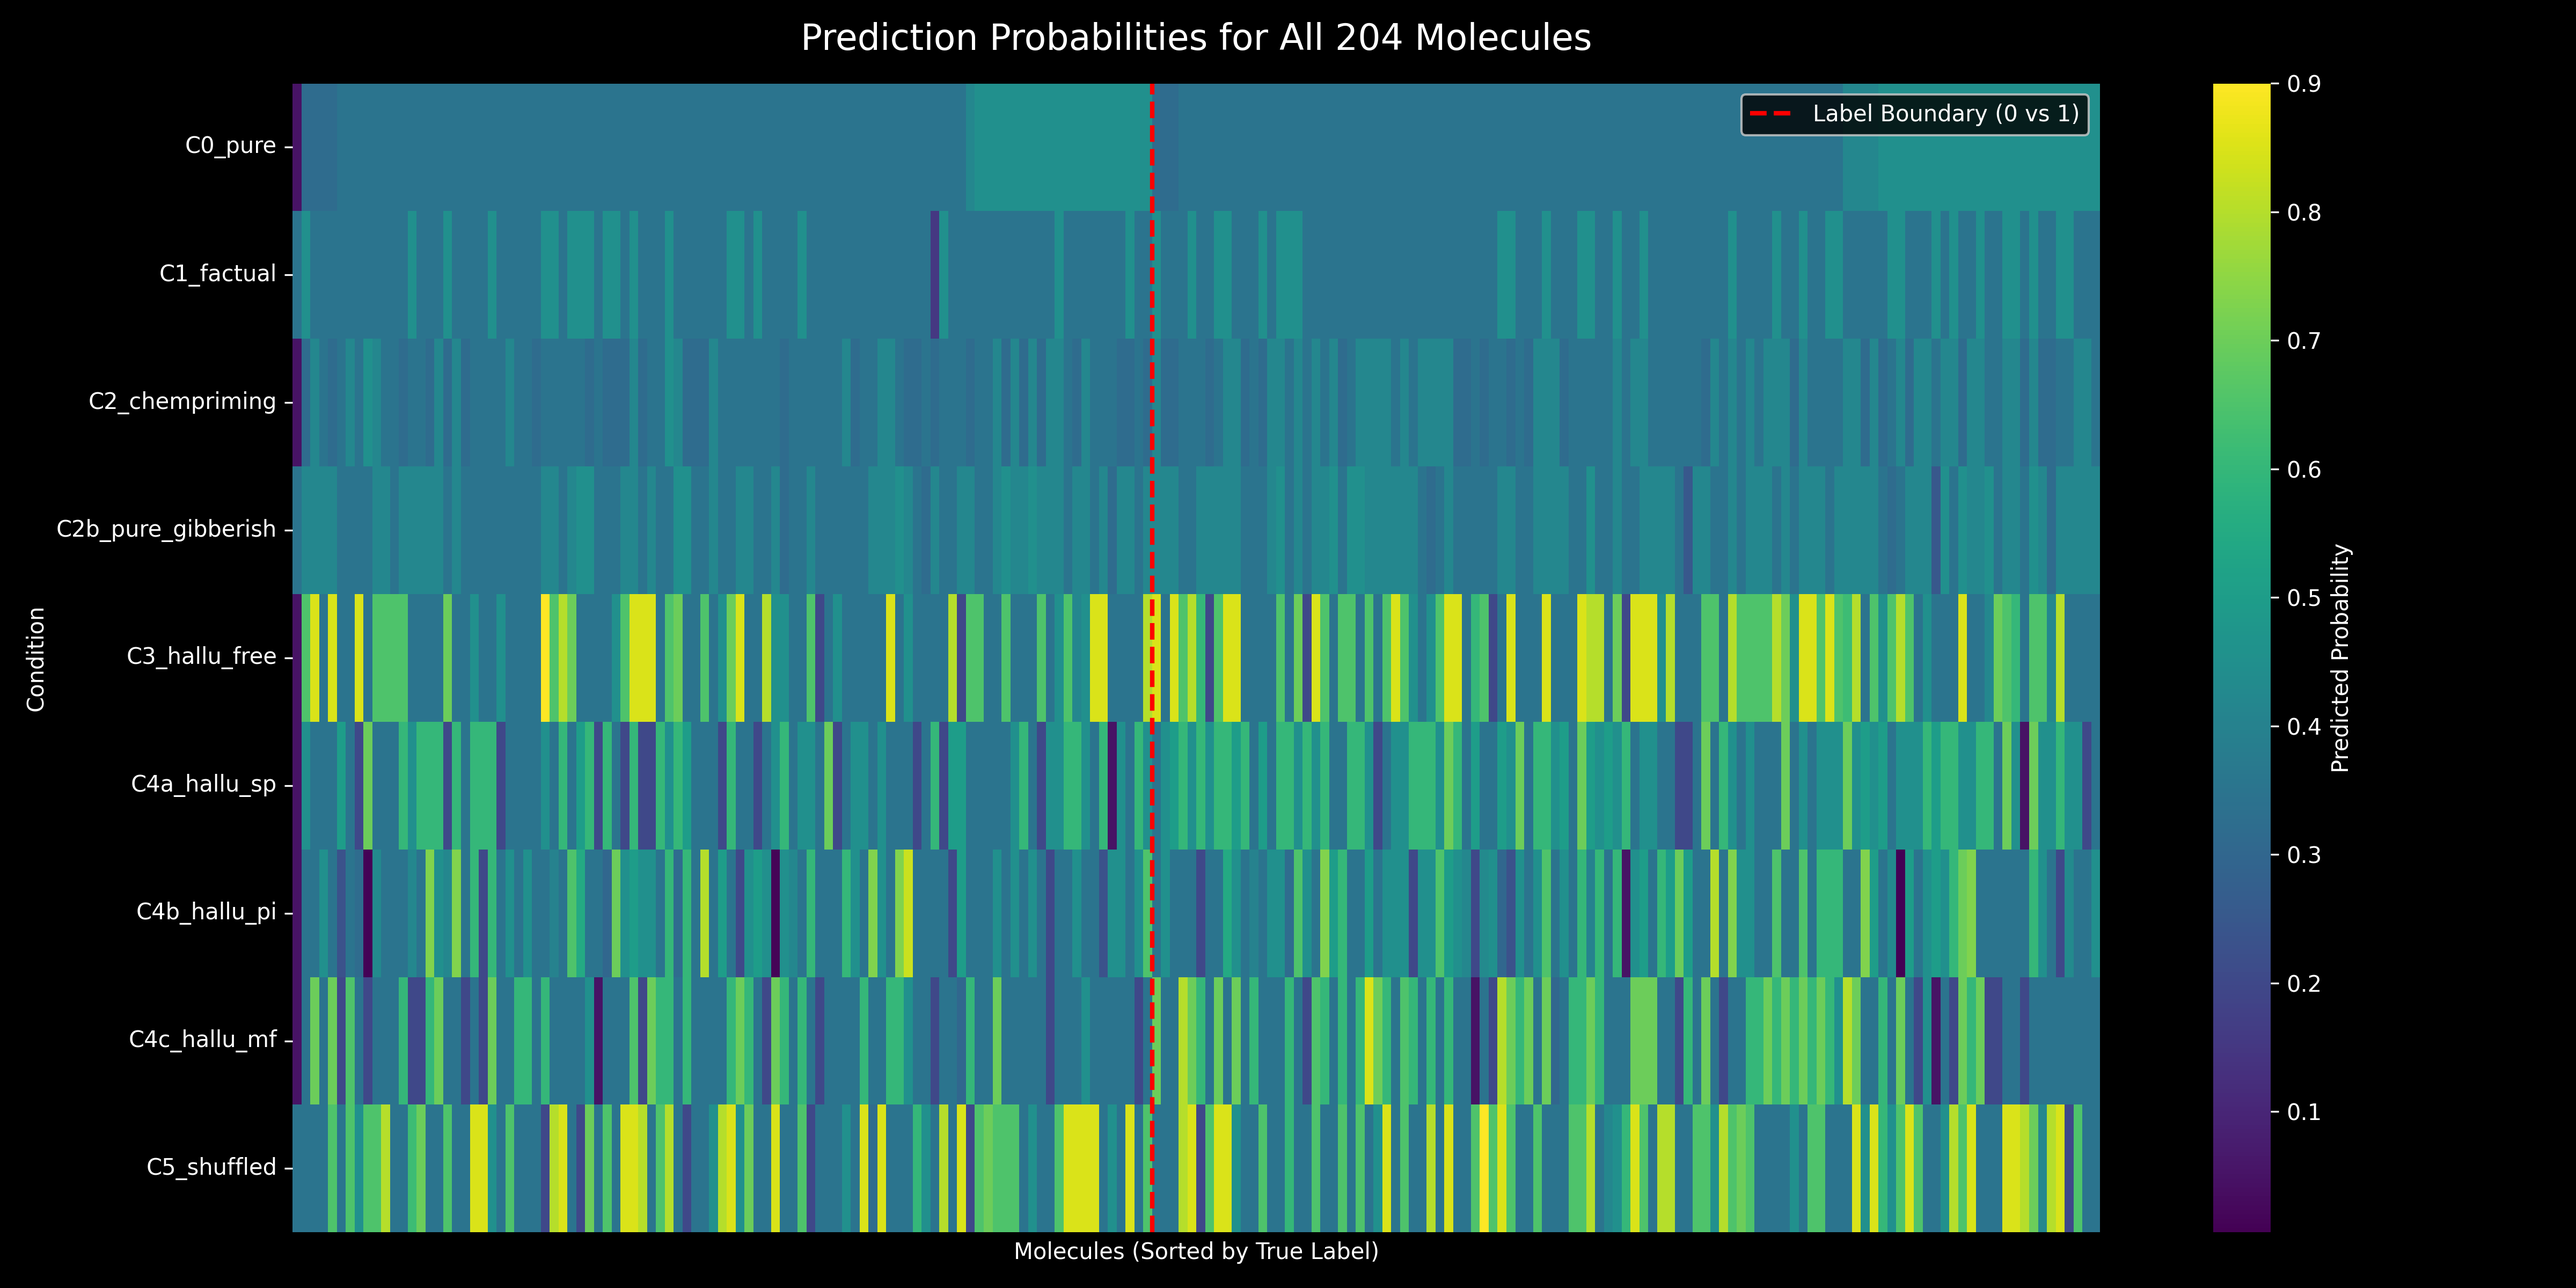
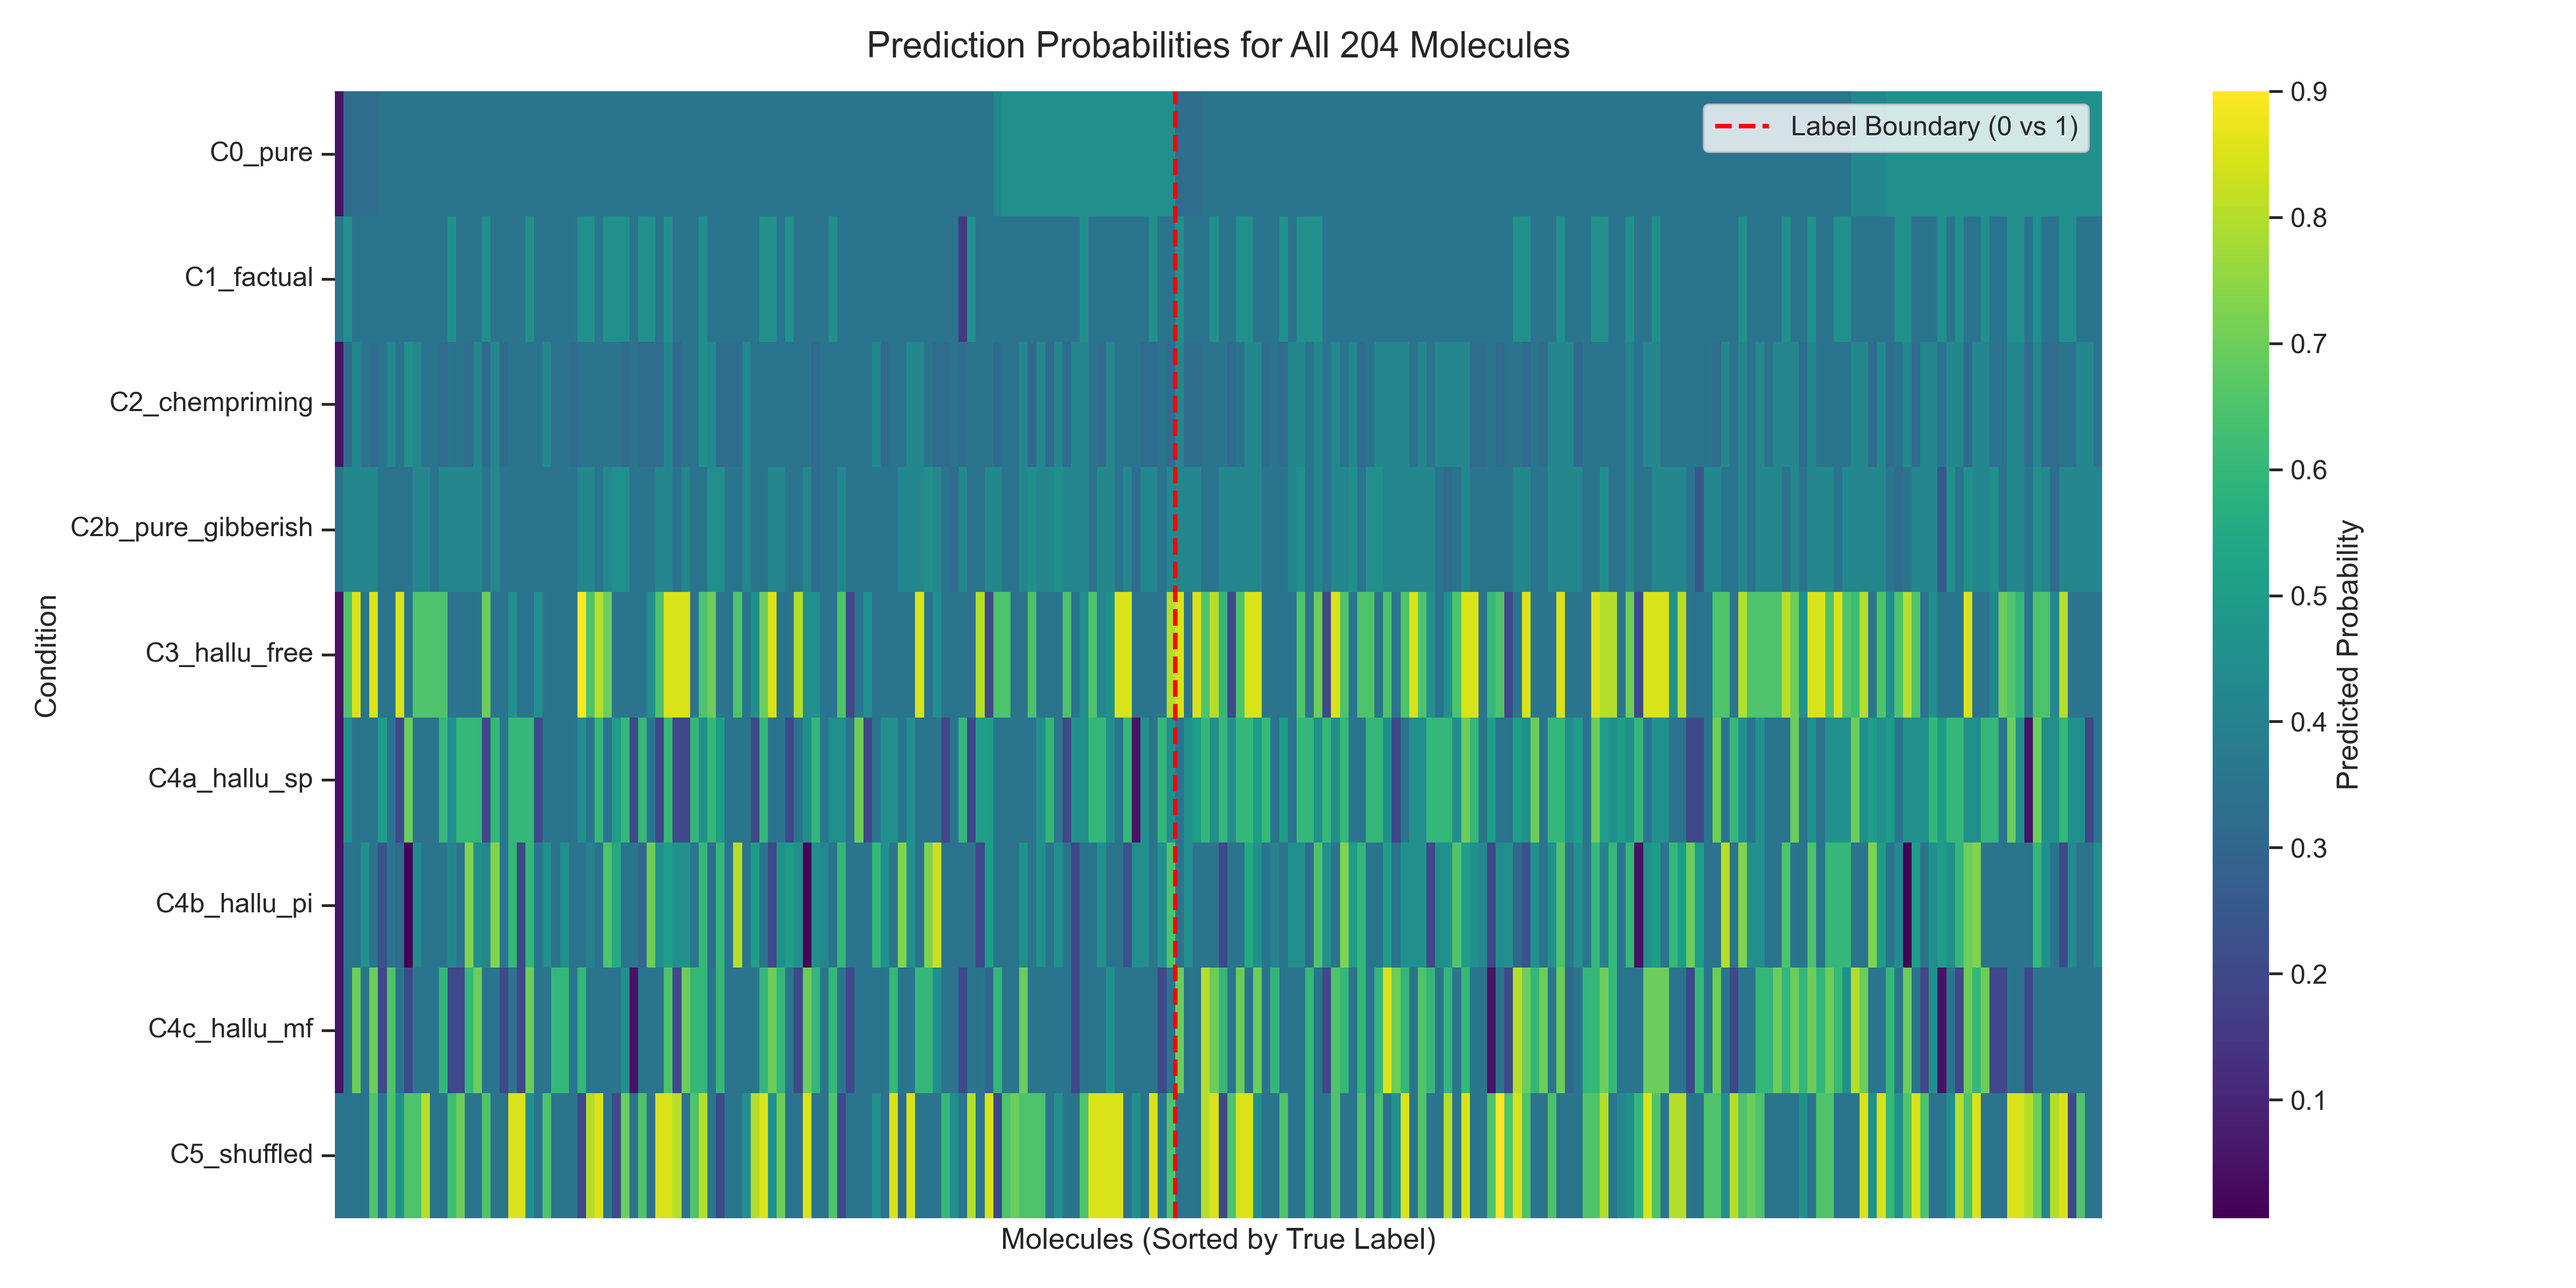
fix: change plot styles to white background for academic standards

diff --git a/src/06_visualization.py b/src/06_visualization.py
@@ -6,9 +6,9 @@ import os
 import json
 from sklearn.metrics import roc_auc_score
 
-# Set style for premium look
-plt.style.use('dark_background')
-sns.set_palette("viridis")
+# Set style for academic premium look (white background)
+plt.style.use('default')
+sns.set_theme(style="ticks", font_scale=1.1)
 
 def load_data(checkpoint_file: str):
     with open(checkpoint_file, 'r') as f:
